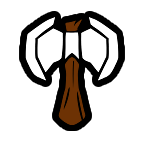
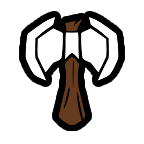
Adjust some code + exe color

Changed region(s): [[0.3889, 0.3889, 0.6111, 0.8889], [0.4444, 0.1389, 0.5833, 0.2222]]

diff --git a/TownOfUs/Patches/EndGamePatches.cs b/TownOfUs/Patches/EndGamePatches.cs
@@ -168,25 +168,20 @@ public static class EndGamePatches
     public static void BuildEndGameSummary(EndGameManager instance)
     {
         var winText = instance.WinText;
-        GameObject bonusText = Object.Instantiate(instance.WinText.gameObject);
-        bonusText.transform.position = new Vector3(instance.WinText.transform.position.x, instance.WinText.transform.position.y - 0.8f, instance.WinText.transform.position.z);
-        bonusText.transform.localScale = new Vector3(0.8f, 0.8f, 1f);
-
-        var textRenderer = bonusText.GetComponent<TMP_Text>();
-        textRenderer.text = string.Empty;
+        var exitBtn = instance.Navigation.ExitButton;
 
         var position = Camera.main.ViewportToWorldPoint(new Vector3(0f, 1f, Camera.main.nearClipPlane));
-        GameObject roleSummaryLeft = Object.Instantiate(instance.WinText.gameObject);
-        roleSummaryLeft.transform.position = new Vector3(instance.Navigation.ExitButton.transform.position.x + 0.1f, position.y - 0.1f, -14f);
+        GameObject roleSummaryLeft = Object.Instantiate(winText.gameObject);
+        roleSummaryLeft.transform.position = new Vector3(exitBtn.transform.position.x + 0.1f, position.y - 0.1f, -14f);
         roleSummaryLeft.transform.localScale = new Vector3(1f, 1f, 1f);
         roleSummaryLeft.gameObject.SetActive(false);
 
-        GameObject roleSummary = Object.Instantiate(instance.WinText.gameObject);
-        roleSummary.transform.position = new Vector3(instance.Navigation.ExitButton.transform.position.x + 0.1f, position.y - 0.1f, -14f);
+        GameObject roleSummary = Object.Instantiate(winText.gameObject);
+        roleSummary.transform.position = new Vector3(exitBtn.transform.position.x + 0.1f, position.y - 0.1f, -14f);
         roleSummary.transform.localScale = new Vector3(1f, 1f, 1f);
 
-        GameObject roleSummary2 = Object.Instantiate(instance.WinText.gameObject);
-        roleSummary2.transform.position = new Vector3(instance.Navigation.ExitButton.transform.position.x + 0.1f, position.y - 0.1f, -14f);
+        GameObject roleSummary2 = Object.Instantiate(winText.gameObject);
+        roleSummary2.transform.position = new Vector3(exitBtn.transform.position.x + 0.1f, position.y - 0.1f, -14f);
         roleSummary2.transform.localScale = new Vector3(1f, 1f, 1f);
         
         winText.transform.position += Vector3.down * 0.8f;
@@ -253,7 +248,7 @@ public static class EndGamePatches
 
         GameHistory.EndGameSummary = roleSummaryBackup.ToString();
 
-        SpriteRenderer GameSummaryButton = Object.Instantiate(instance.Navigation.ExitButton);
+        SpriteRenderer GameSummaryButton = Object.Instantiate(exitBtn);
         GameSummaryButton.gameObject.SetActive(true);
         GameSummaryButton.sprite = TouAssets.GameSummarySprite.LoadAsset();
         GameSummaryButton.transform.position += Vector3.up * 1.5f;

diff --git a/TownOfUs/Patches/HudManagerPatches.cs b/TownOfUs/Patches/HudManagerPatches.cs
@@ -318,7 +318,7 @@ public static class HudManagerPatches
 
                 if ((player.HasModifier<ExecutionerTargetModifier>(x => x.OwnerId == PlayerControl.LocalPlayer.PlayerId) && PlayerControl.LocalPlayer.IsRole<ExecutionerRole>())
                 || (player.HasModifier<ExecutionerTargetModifier>() && PlayerControl.LocalPlayer.HasDied() && genOpt.TheDeadKnow))
-                    playerName += "<color=#8C4005FF> X</color>";
+                    playerName += "<color=#643B1FFF> X</color>";
 
                 if (player.HasModifier<InquisitorHereticModifier>() && PlayerControl.LocalPlayer.HasDied() && (genOpt.TheDeadKnow || PlayerControl.LocalPlayer.GetRoleWhenAlive() is InquisitorRole))
                     playerName += "<color=#D94291FF> $</color>";
@@ -496,7 +496,7 @@ public static class HudManagerPatches
 
                 if ((player.HasModifier<ExecutionerTargetModifier>(x => x.OwnerId == PlayerControl.LocalPlayer.PlayerId) && PlayerControl.LocalPlayer.IsRole<ExecutionerRole>())
                     || (player.HasModifier<ExecutionerTargetModifier>() && PlayerControl.LocalPlayer.HasDied() && genOpt.TheDeadKnow && !body && !fakePlayer?.body))
-                    playerName += "<color=#8C4005FF> X</color>";
+                    playerName += "<color=#643B1FFF> X</color>";
                     
                 if (player.HasModifier<InquisitorHereticModifier>() && PlayerControl.LocalPlayer.HasDied() && (genOpt.TheDeadKnow || PlayerControl.LocalPlayer.GetRoleWhenAlive() is InquisitorRole))
                     playerName += "<color=#D94291FF> $</color>";

diff --git a/TownOfUs/Roles/Neutral/ExecutionerRole.cs b/TownOfUs/Roles/Neutral/ExecutionerRole.cs
@@ -248,6 +248,6 @@ public sealed class ExecutionerRole(IntPtr cppPtr) : NeutralRole(cppPtr), ITownO
 
     public string GetAdvancedDescription()
     {
-        return $"The Executioner is a Neutral Evil role that wins by getting their target (signified by <color=#8C4005FF>X</color>) ejected in a meeting." + MiscUtils.AppendOptionsText(GetType());
+        return $"The Executioner is a Neutral Evil role that wins by getting their target (signified by <color=#643B1FFF>X</color>) ejected in a meeting." + MiscUtils.AppendOptionsText(GetType());
     }
 }

diff --git a/TownOfUs/TownOfUsColors.cs b/TownOfUs/TownOfUsColors.cs
@@ -41,7 +41,7 @@ public static class TownOfUsColors
     // Neutral Colors
     public static Color Neutral => Color.gray;
     public static Color Jester => new(1f, 0.75f, 0.8f, 1f);
-    public static Color Executioner => new(0.55f, 0.25f, 0.02f, 1f);
+    public static Color Executioner => new(0.39f, 0.23f, 0.12f, 1f);
     public static Color Glitch => Color.green;
     public static Color Arsonist => new(1f, 0.3f, 0f);
     public static Color Amnesiac => new(0.5f, 0.7f, 1f, 1f);
